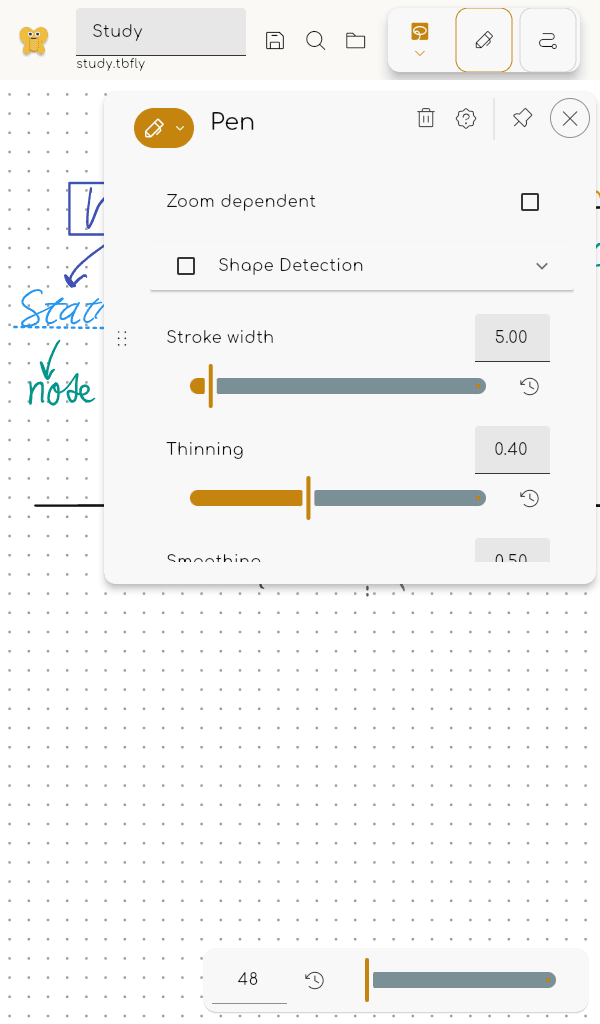
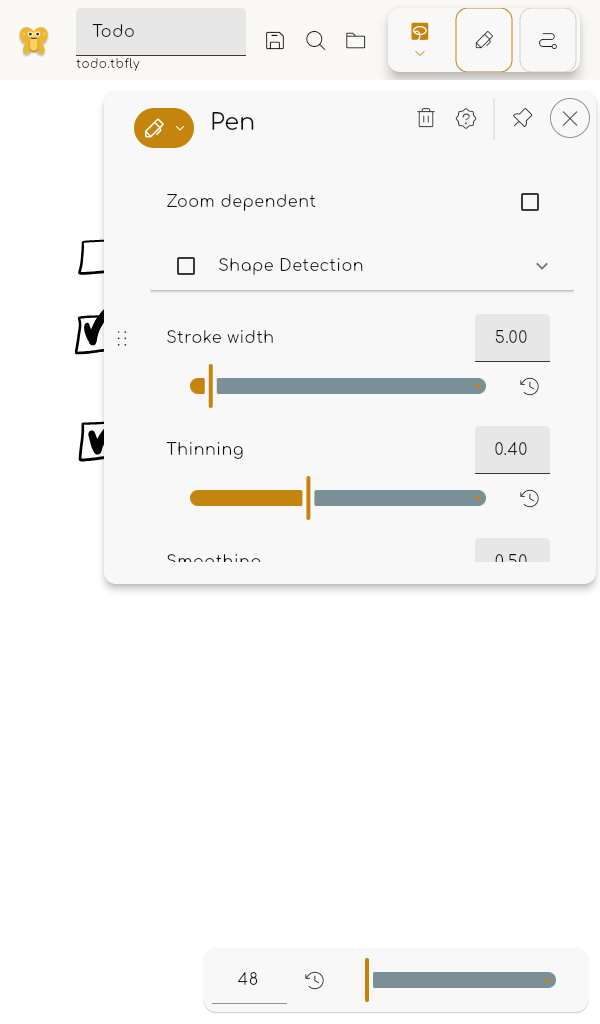
Use todo doc for properties

diff --git a/app/integration_test/screenshot.dart b/app/integration_test/screenshot.dart
@@ -29,11 +29,12 @@ void main() {
   final screenshotBoundaryKey = GlobalKey();
   final defaultFlutterError = FlutterError.onError;
   const openingDocumentName = 'study.tbfly';
+  const propertiesDocumentName = 'todo.tbfly';
   const screenshotDocumentNames = [
     'Butterfly.tbfly',
     'butterfly design.tbfly',
     openingDocumentName,
-    'todo.tbfly',
+    propertiesDocumentName,
   ];
   final sizes = {
     'phoneScreenshots': const Size(360, 800),
@@ -135,16 +136,18 @@ void main() {
     await settle(tester);
   }
 
-  Future<void> pumpDocument(WidgetTester tester, Size size) async {
-    final file = File(
-      '${overrideButterflyDirectory!}/Documents/$openingDocumentName',
-    );
+  Future<void> pumpDocument(
+    WidgetTester tester,
+    Size size, {
+    String documentName = openingDocumentName,
+  }) async {
+    final file = File('${overrideButterflyDirectory!}/Documents/$documentName');
     await pumpApp(
       tester,
       size,
       initialLocation: Uri(
         path: '/native',
-        queryParameters: {'path': openingDocumentName, 'type': 'note'},
+        queryParameters: {'path': documentName, 'type': 'note'},
       ).toString(),
       initialExtra: await file.readAsBytes(),
     );
@@ -219,11 +222,11 @@ void main() {
         await takeScreenshot(tester, '$directory/1-home');
 
         await pumpDocument(tester, size);
-        final viewportContext = tester.element(find.byType(MainViewViewport));
-        final currentIndexCubit = viewportContext.read<CurrentIndexCubit>();
-        final transformCubit = viewportContext.read<TransformCubit>();
-        final bloc = viewportContext.read<DocumentBloc>();
-        final pen = bloc.state.info?.tools.whereType<PenTool>().firstOrNull;
+        var viewportContext = tester.element(find.byType(MainViewViewport));
+        var currentIndexCubit = viewportContext.read<CurrentIndexCubit>();
+        var transformCubit = viewportContext.read<TransformCubit>();
+        var bloc = viewportContext.read<DocumentBloc>();
+        var pen = bloc.state.info?.tools.whereType<PenTool>().firstOrNull;
         final isDesktop = size.width >= 840;
 
         if (isDesktop) {
@@ -263,11 +266,31 @@ void main() {
             'The screenshot document does not contain a pen tool',
           );
         }
+
+        await pumpDocument(tester, size, documentName: propertiesDocumentName);
+        viewportContext = tester.element(find.byType(MainViewViewport));
+        currentIndexCubit = viewportContext.read<CurrentIndexCubit>();
+        transformCubit = viewportContext.read<TransformCubit>();
+        bloc = viewportContext.read<DocumentBloc>();
+        pen = bloc.state.info?.tools.whereType<PenTool>().firstOrNull;
+        if (pen == null) {
+          throw StateError(
+            'The properties screenshot document does not contain a pen tool',
+          );
+        }
+        await frameOpeningDocument(tester, size, transformCubit);
         currentIndexCubit.setNavigatorEnabled(false);
         currentIndexCubit.changeSelection(pen, false);
         await settle(tester);
         expect(find.byType(PropertyView), findsOneWidget);
         await takeScreenshot(tester, '$directory/4-properties');
+
+        await pumpDocument(tester, size);
+        viewportContext = tester.element(find.byType(MainViewViewport));
+        currentIndexCubit = viewportContext.read<CurrentIndexCubit>();
+        transformCubit = viewportContext.read<TransformCubit>();
+        bloc = viewportContext.read<DocumentBloc>();
+        await frameOpeningDocument(tester, size, transformCubit);
 
         currentIndexCubit.changeSelection(currentIndexCubit, false);
         await settle(tester);